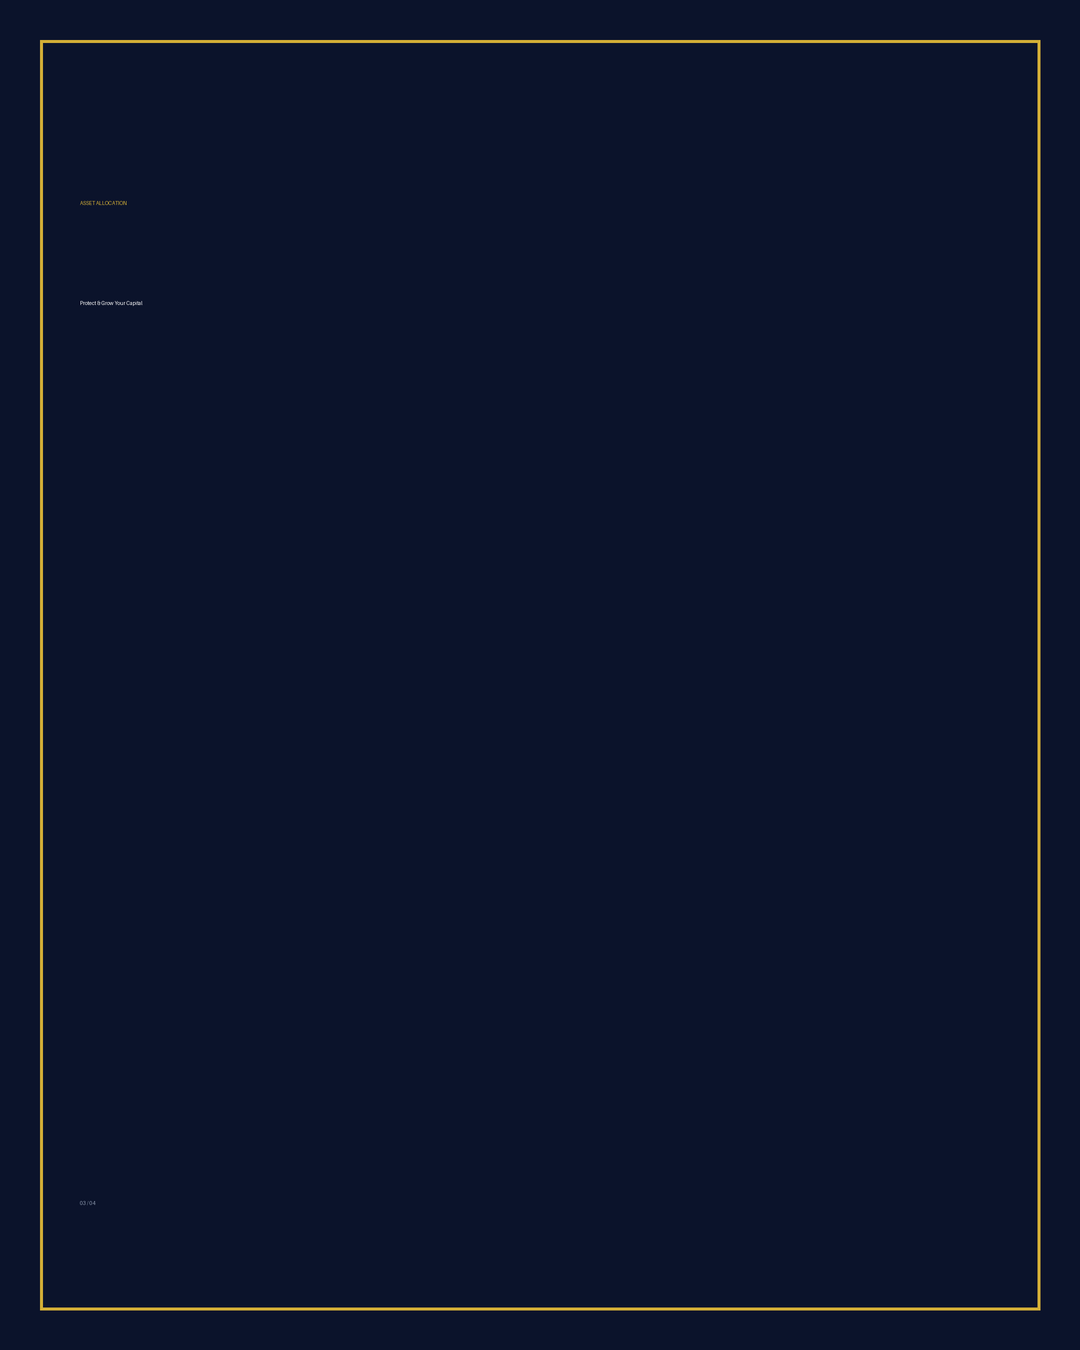
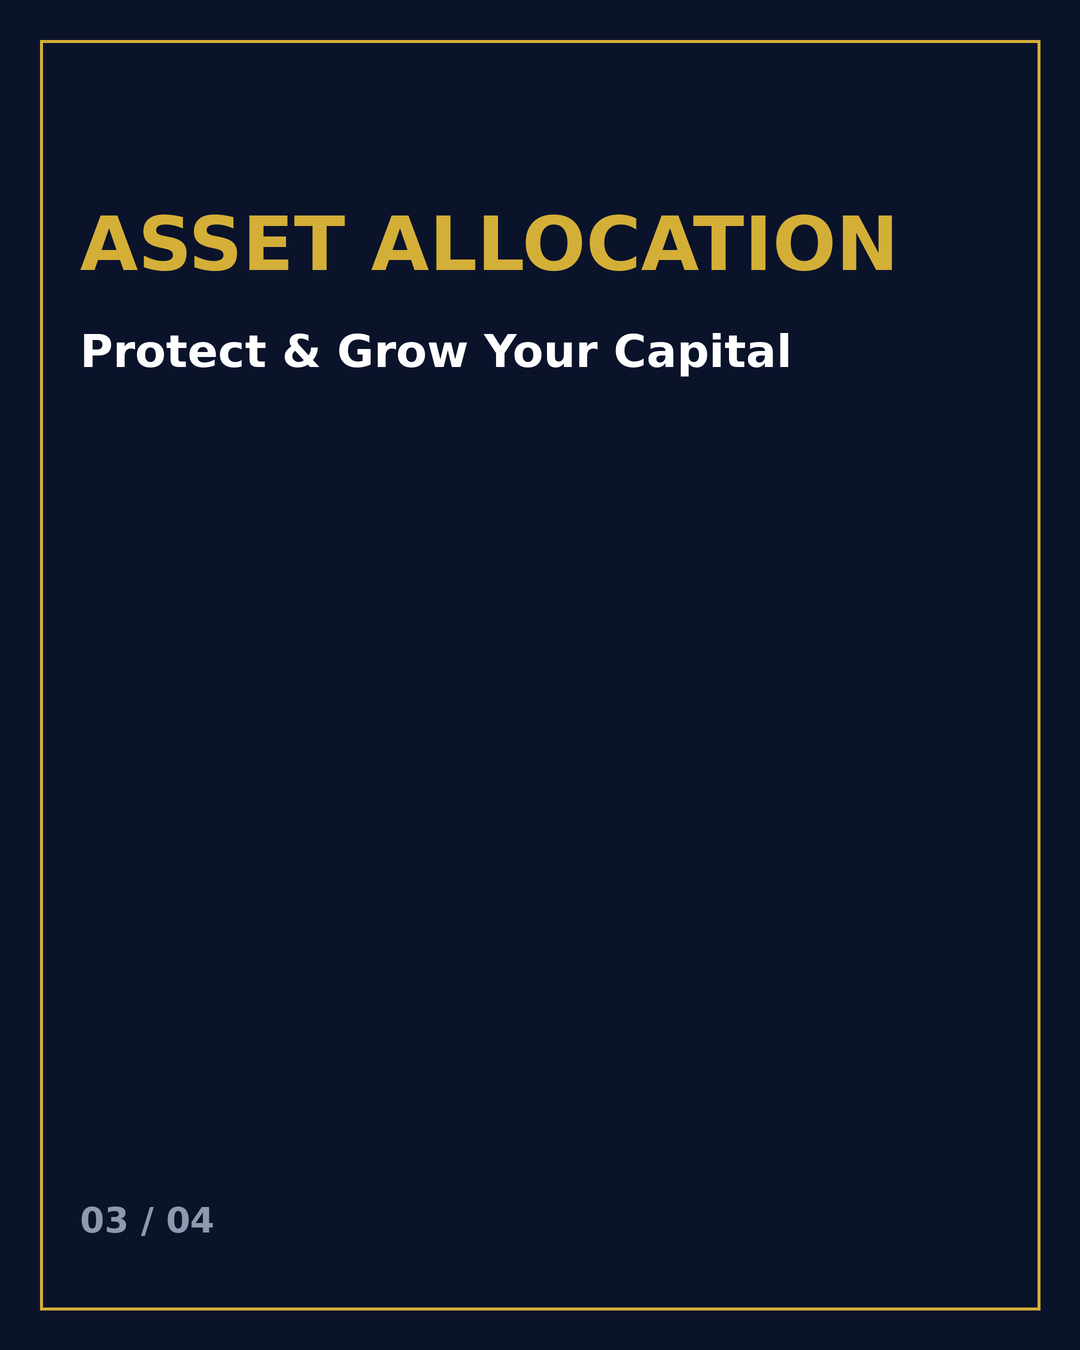
Fix Instagram publish failing with 'Media ID is not available'
Wait for each media container to finish processing before publishing,
fail the workflow when a Meta API step errors, and give slide text a
real font size so it is readable.

Claude-Session: https://claude.ai/code/session_01KfxM8Kzy5u2Lq2LBUar7fe

diff --git a/publisher.py b/publisher.py
@@ -1,5 +1,7 @@
 import os
 import subprocess
+import sys
+import time
 import requests
 from generator import create_carousel_slides
 
@@ -34,13 +36,35 @@ def commit_and_get_urls(slides):
         
     return public_urls
 
+def wait_until_ready(container_id, timeout=300, interval=10):
+    """Instagram processes media in the background. Publishing before it is
+    FINISHED fails with 'Media ID is not available' (code 9007)."""
+    status_url = f"https://graph.facebook.com/v18.0/{container_id}"
+    deadline = time.time() + timeout
+    while time.time() < deadline:
+        res = requests.get(status_url, params={
+            "fields": "status_code,status",
+            "access_token": ACCESS_TOKEN,
+        }).json()
+        status = res.get("status_code")
+        print(f"Container {container_id} status: {status}")
+        if status == "FINISHED":
+            return True
+        if status in ("ERROR", "EXPIRED"):
+            print("Container failed:", res)
+            return False
+        time.sleep(interval)
+    print(f"Timed out waiting for container {container_id}")
+    return False
+
+
 def publish_carousel():
     slides = create_carousel_slides()
     print("Generated slides locally:", slides)
     
     if not ACCESS_TOKEN or not IG_USER_ID:
         print("Meta credentials missing!")
-        return
+        sys.exit(1)
 
     # Get permanent public URLs via GitHub commit
     public_urls = commit_and_get_urls(slides)
@@ -60,10 +84,11 @@ def publish_carousel():
             print(f"Created carousel item container: {res['id']}")
         else:
             print("Error creating item container:", res)
+            sys.exit(1)
 
-    if not item_ids:
-        print("No carousel items created.")
-        return
+    for item_id in item_ids:
+        if not wait_until_ready(item_id):
+            sys.exit(1)
 
     # Step 2: Create Carousel Container
     carousel_url = f"https://graph.facebook.com/v18.0/{IG_USER_ID}/media"
@@ -78,6 +103,8 @@ def publish_carousel():
     if "id" in carousel_res:
         creation_id = carousel_res["id"]
         print(f"Created main carousel container: {creation_id}")
+        if not wait_until_ready(creation_id):
+            sys.exit(1)
 
         # Step 3: Publish Carousel Container
         publish_url = f"https://graph.facebook.com/v18.0/{IG_USER_ID}/media_publish"
@@ -87,8 +114,11 @@ def publish_carousel():
         }
         pub_res = requests.post(publish_url, data=publish_payload).json()
         print("Publish Result:", pub_res)
+        if "id" not in pub_res:
+            sys.exit(1)
     else:
         print("Error creating carousel container:", carousel_res)
+        sys.exit(1)
 
 if __name__ == "__main__":
     publish_carousel()

diff --git a/generator.py b/generator.py
@@ -1,6 +1,19 @@
 import os
 from PIL import Image, ImageDraw, ImageFont
 
+FONT_PATHS = [
+    "/usr/share/fonts/truetype/dejavu/DejaVuSans-Bold.ttf",
+    "/usr/share/fonts/truetype/liberation/LiberationSans-Bold.ttf",
+]
+
+
+def load_font(size):
+    for path in FONT_PATHS:
+        if os.path.exists(path):
+            return ImageFont.truetype(path, size)
+    return ImageFont.load_default(size=size)
+
+
 def create_carousel_slides():
     os.makedirs("slides", exist_ok=True)
     
@@ -22,10 +35,11 @@ def create_carousel_slides():
         # Draw luxury border frame
         draw.rectangle([80, 80, width - 80, height - 80], outline="#D4AF37", width=6)
         
-        # Text positioning
-        draw.text((160, 400), title, fill="#D4AF37")
-        draw.text((160, 600), subtitle, fill="#FFFFFF")
-        draw.text((160, 2400), page, fill="#8D99AE")
+        # Text positioning (sizes are for the 2x canvas; without a font size
+        # Pillow draws a tiny ~10px bitmap font)
+        draw.text((160, 400), title, fill="#D4AF37", font=load_font(150))
+        draw.text((160, 650), subtitle, fill="#FFFFFF", font=load_font(90))
+        draw.text((160, 2400), page, fill="#8D99AE", font=load_font(70))
         
         filename = f"slides/slide_{i}.png"
         img_final = img.resize((1080, 1350), Image.Resampling.LANCZOS)
